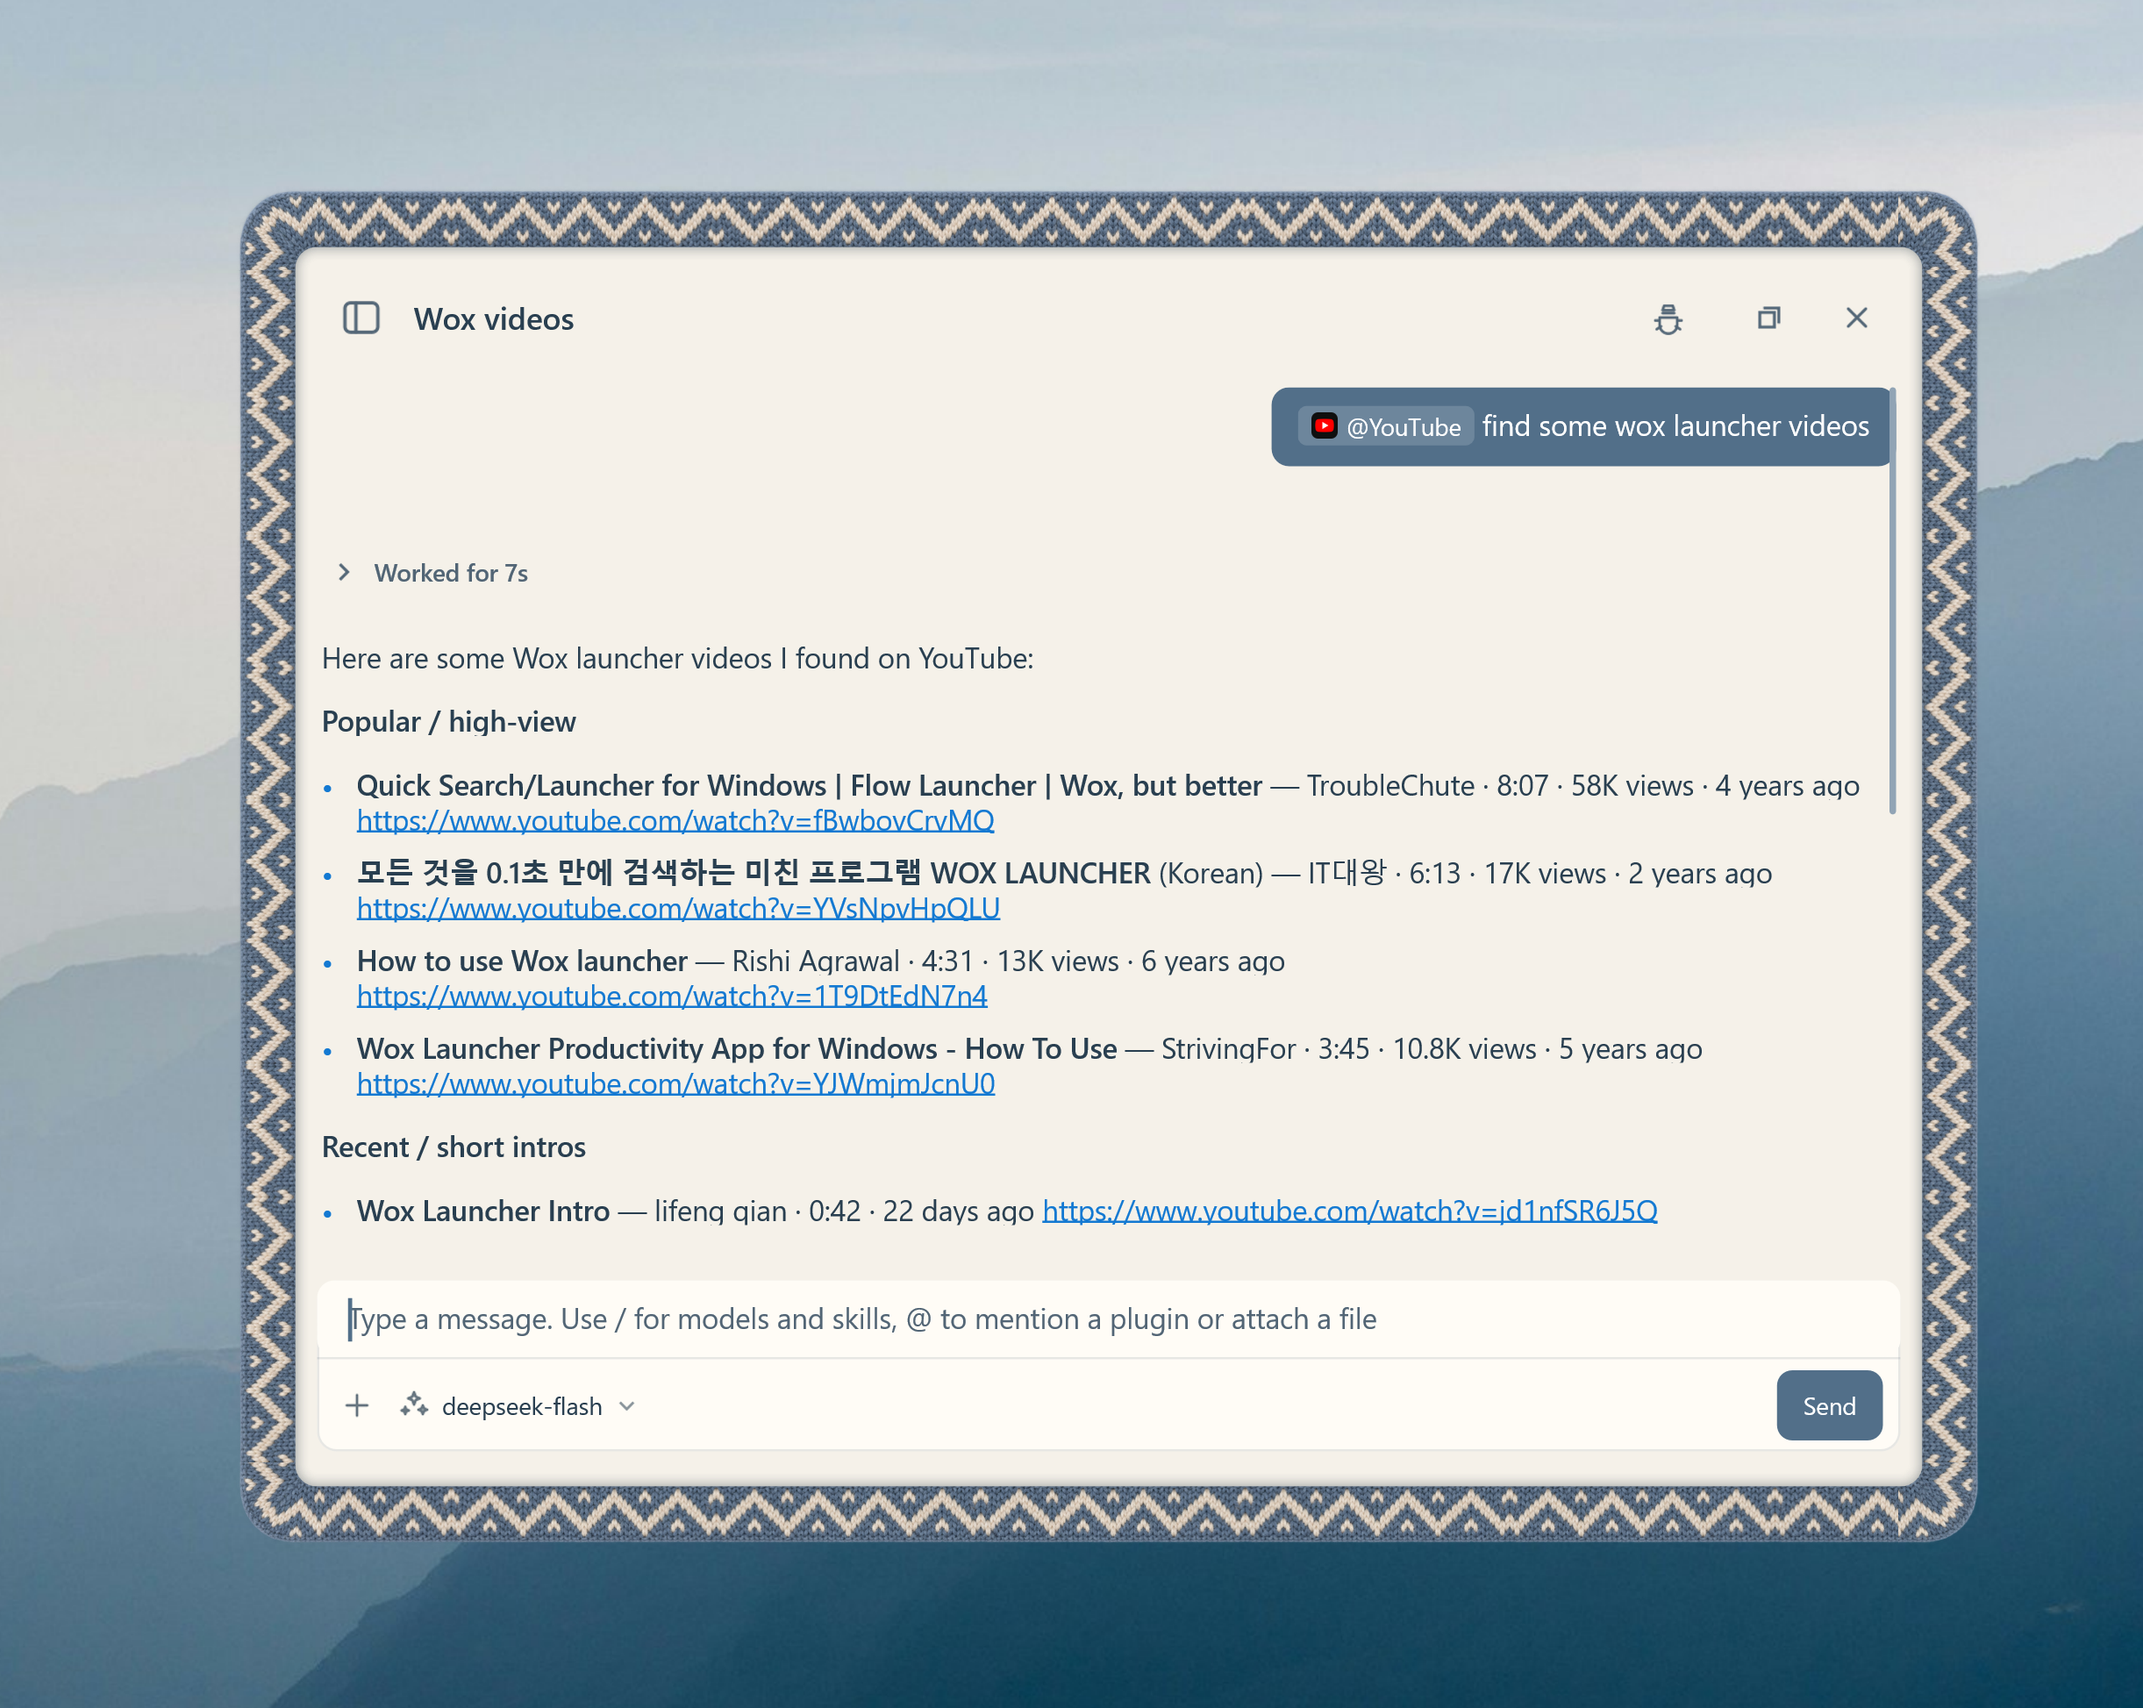
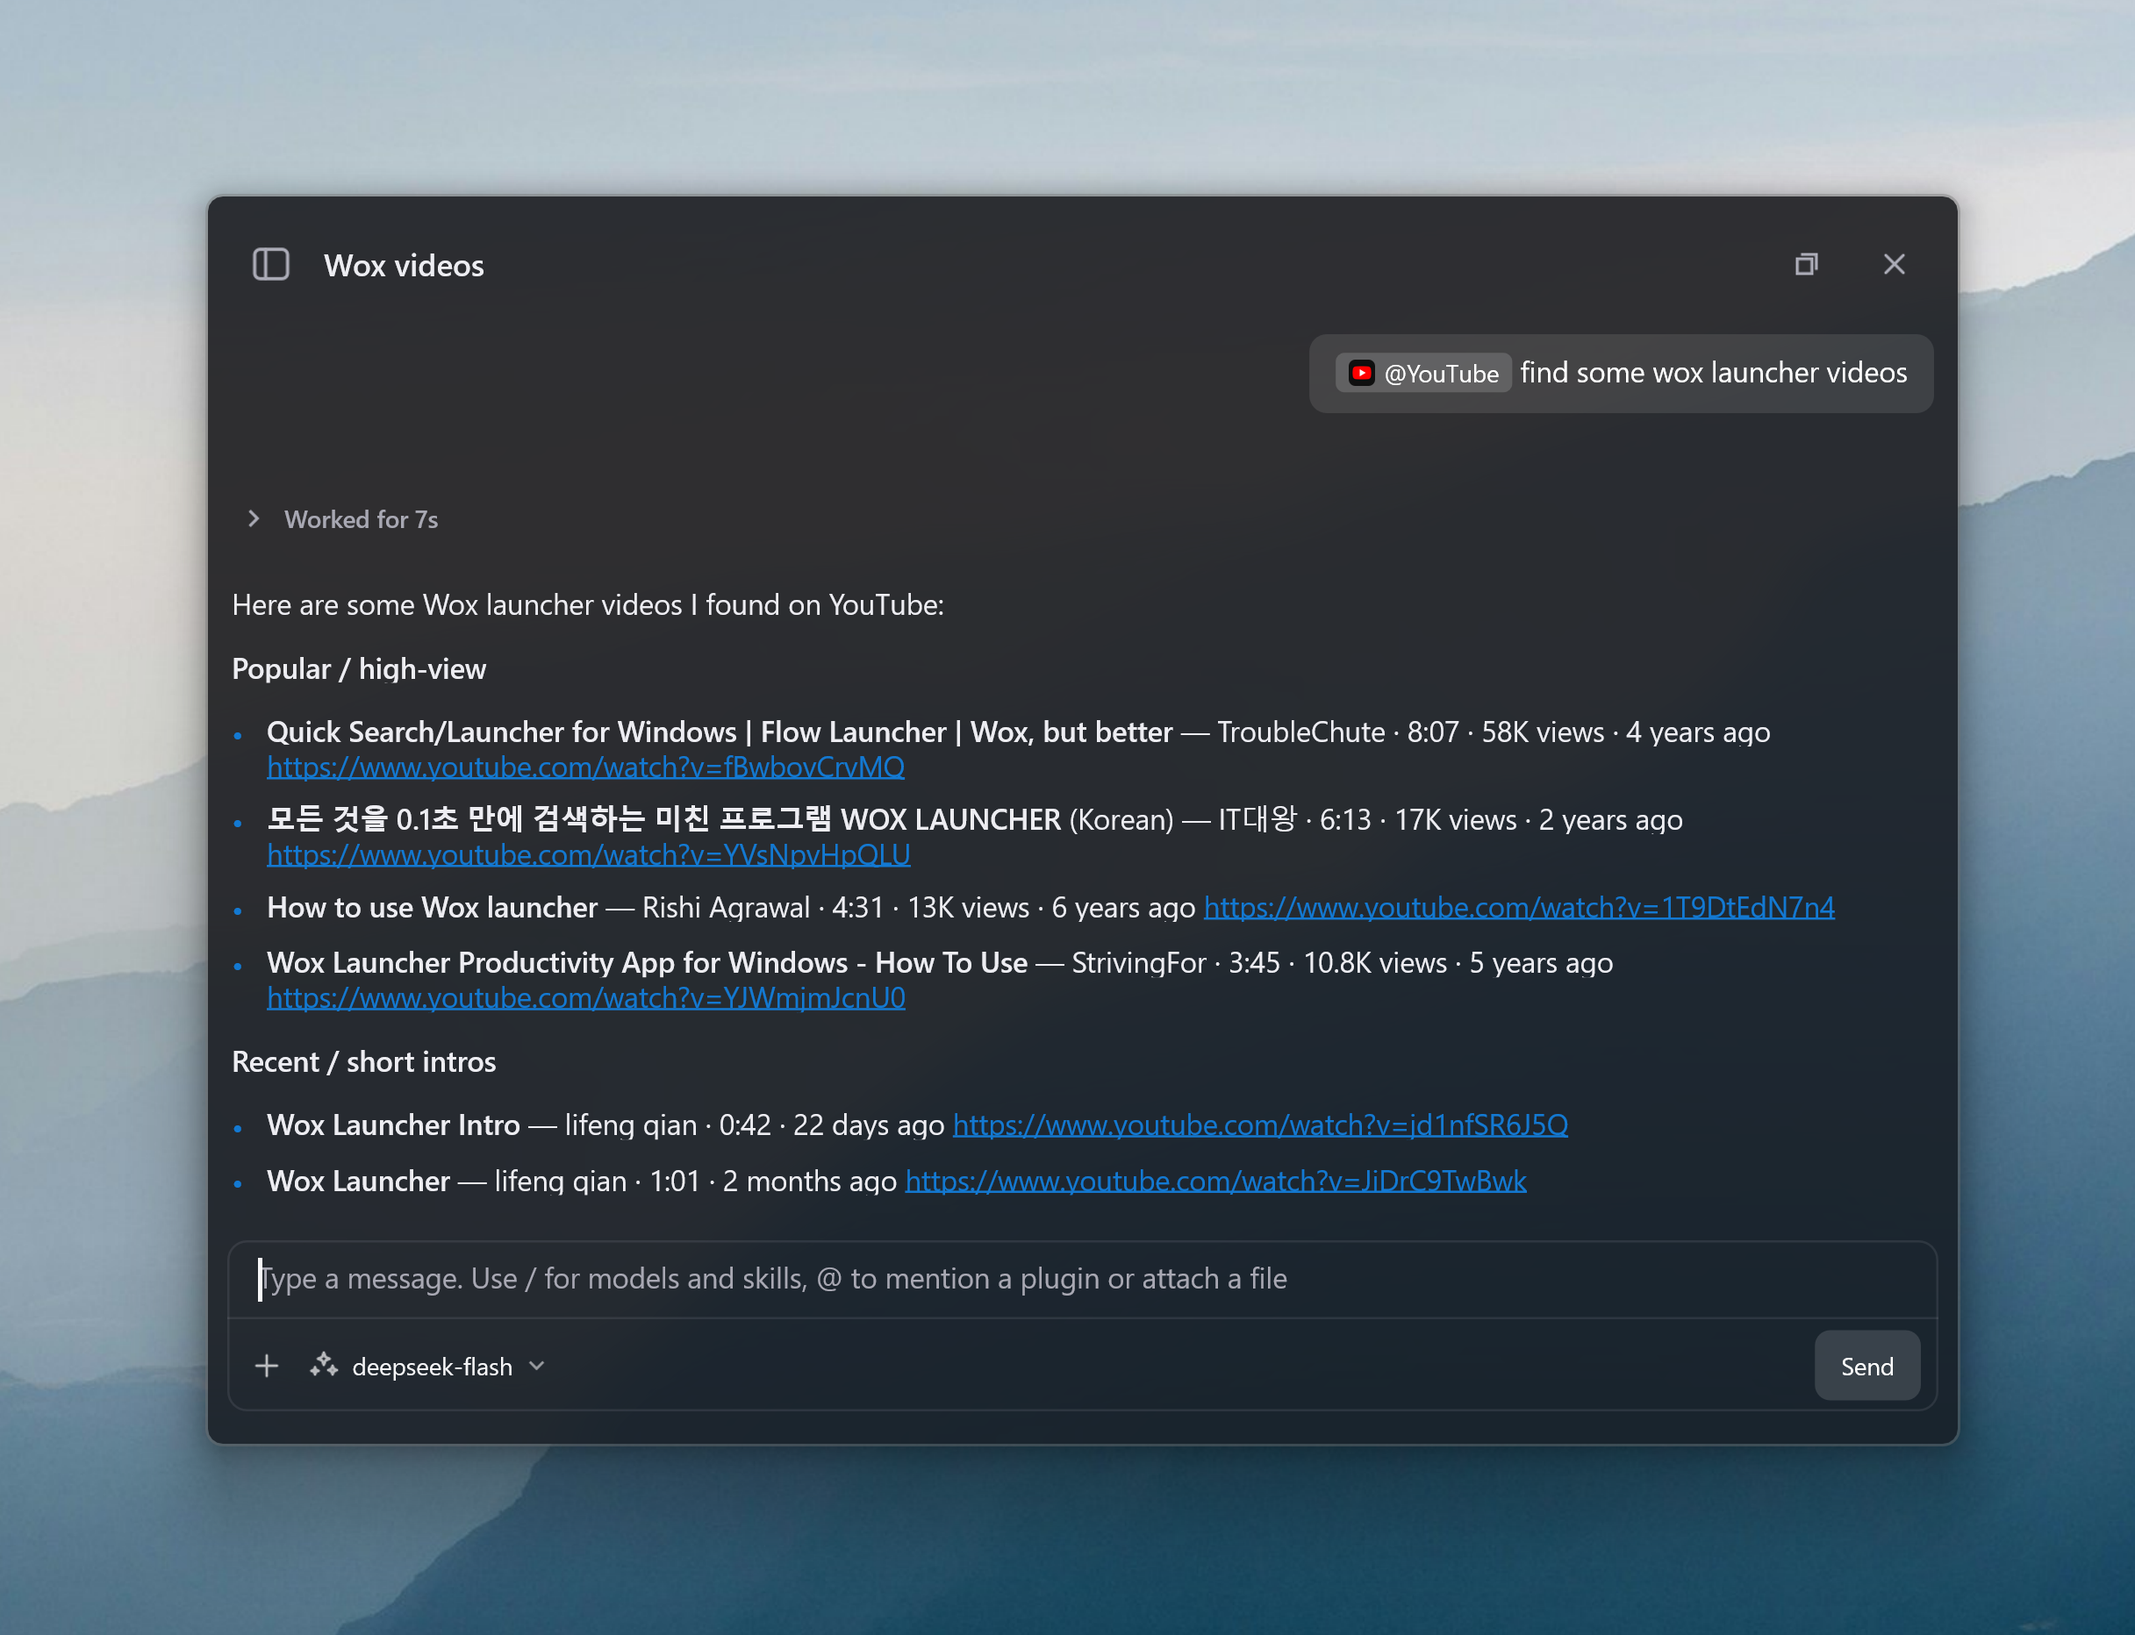
chore:  improved readability and maintainability for changelog

diff --git a/CHANGELOG.md b/CHANGELOG.md
@@ -3,6 +3,8 @@
 ## v2.4.5 - 2026-09-23
 
 This release lets you set a global hotkey or a search alias on any result.
+![](https://raw.githubusercontent.com/Wox-launcher/Wox/refs/heads/master/screenshots/result_hotkey_alias.png)
+
 
 - Improve
   - [`Theme`] Add the `.wox-theme` theme format.

diff --git a/CHANGELOG.zh_CN.md b/CHANGELOG.zh_CN.md
@@ -3,6 +3,7 @@
 ## v2.4.5 - 2026-09-23
 
 此版本新增给任意结果设置全局快捷键或者搜索别名。
+![](https://raw.githubusercontent.com/Wox-launcher/Wox/refs/heads/master/screenshots/result_hotkey_alias.png)
 
 - Improve
   - [`Theme`] 新增 `.wox-theme`主题格式
